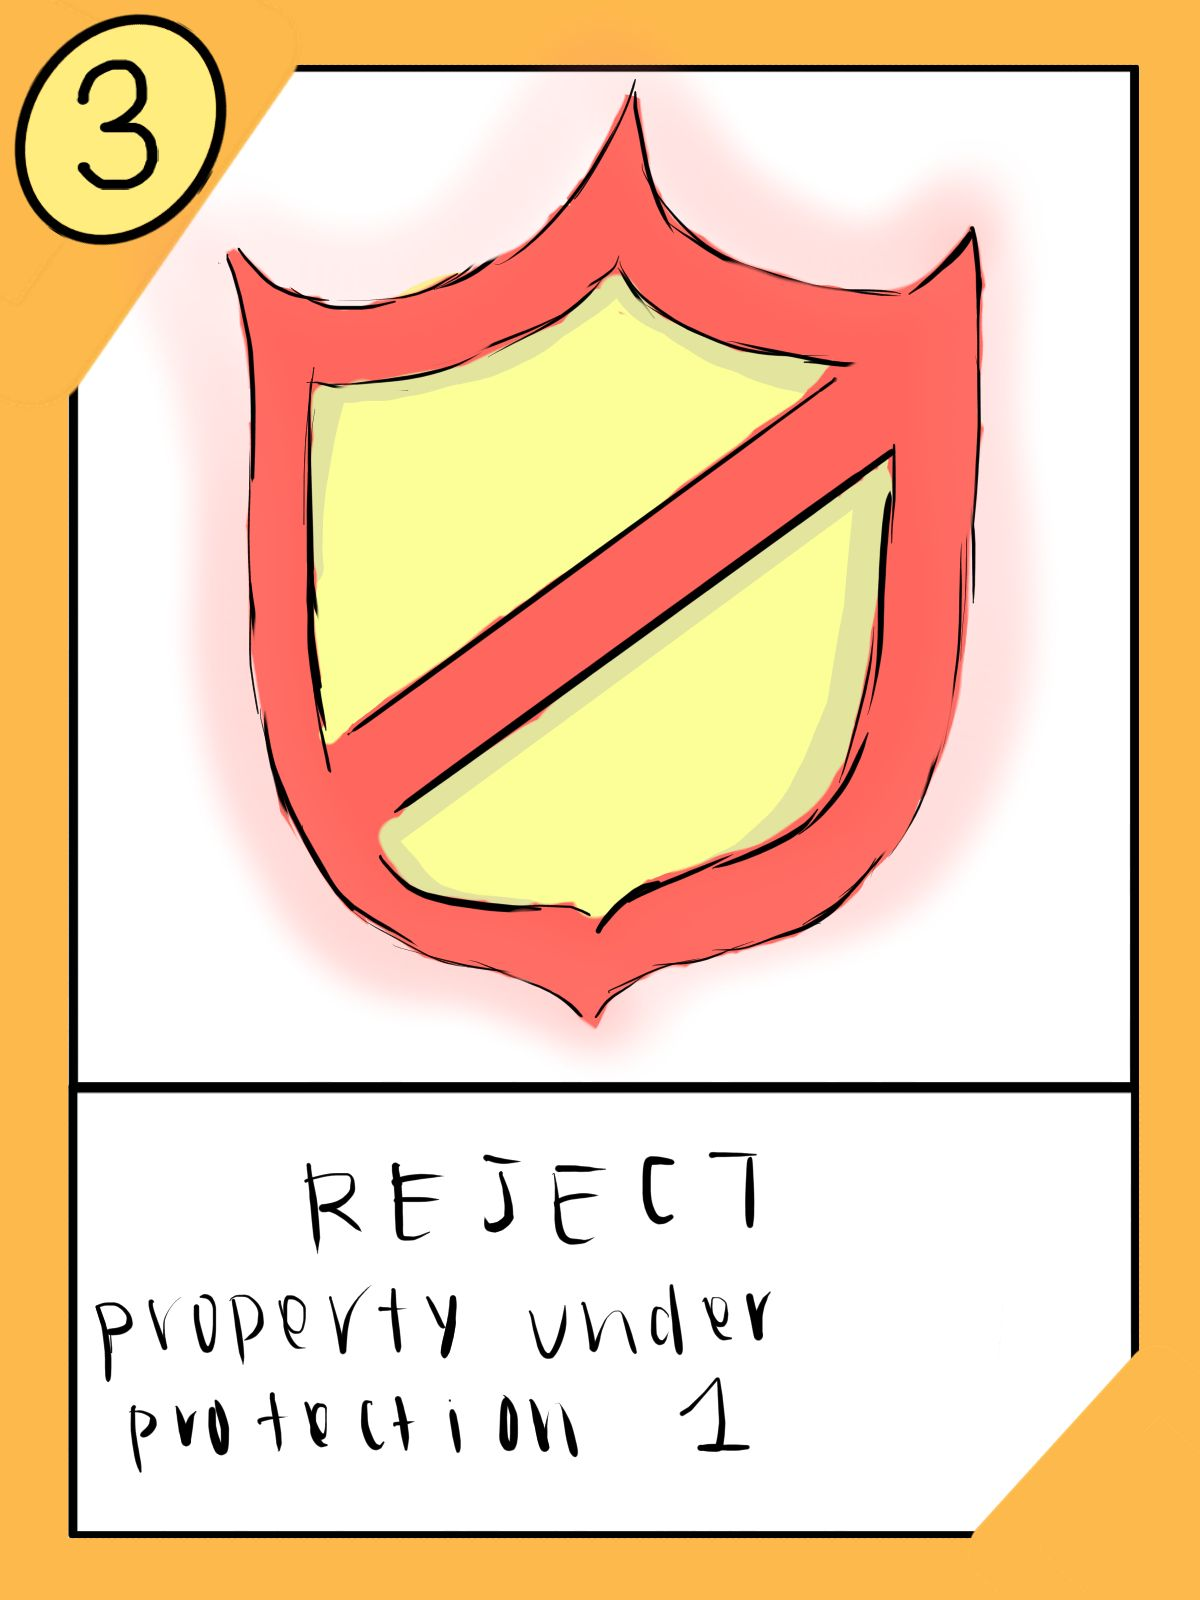
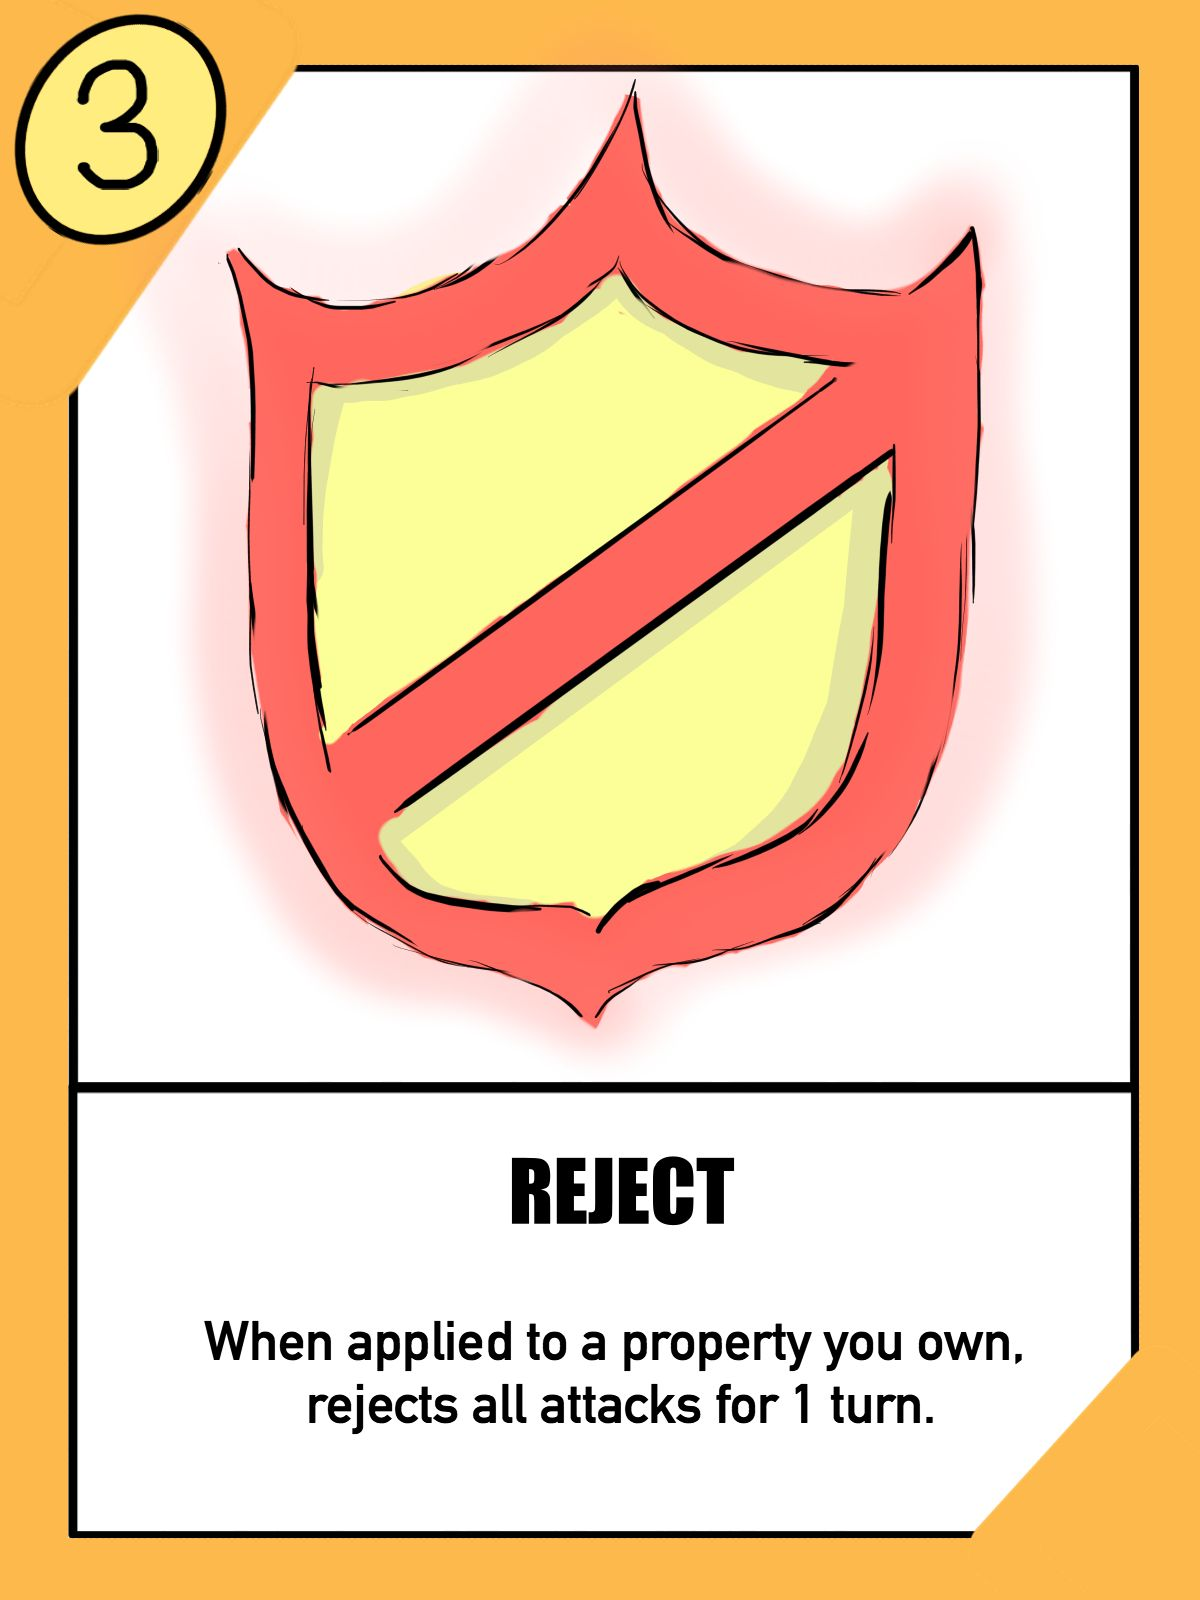
edited cards to have descriptions, added no cost and double cards, edited character cards

Changed region(s): [[0.0617, 0.8125, 0.8325, 0.9062], [0.4008, 0.7188, 0.6475, 0.7812], [0.2467, 0.7188, 0.37, 0.7812]]

diff --git a/client/src/multiplayer.js b/client/src/multiplayer.js
@@ -31,7 +31,7 @@ function Property(number, imgURL, health, shield, isAttackable) {
 // }
 
 
-charCards = [new Card("Maro", "img/maro.jpg"), new Card("Momo", "img/momoko.jpg"), new Card("CatMagi", "img/catMagicCard.jpg"), new Card("Ches", "img/ches.jpg")];
+charCards = [new Card("Maro", "img/maro.jpg"), new Card("Momo", "img/momoko.jpg"), new Card("CatMagi", "img/catMagicCard.jpg"), new Card("Ches", "img/chesu.jpg")];
 
 function Player(charIndex) {
     this.playerChar = charCards[charIndex];
@@ -99,24 +99,24 @@ var weightedDeck = [];
 // ];
 var deckCards;
 var deckCards0 = [new Card("attack", "img/maroDeck1.jpg", "attack", 1, 35), new Card("reject", "img/maroDeck3.jpg", "defense", 3, 14),
-    new Card("counter", "img/basicCard.jpg", "attack", 0, 4), new Card("swap", "img/maroDeck4.jpg", "attack", 4, 4),
-    new Card("defend", "img/maroDeck2.jpg", "defense", 2, 21), new Card("no cost", "img/basicCard.jpg", "attack", 5, 2),
-    new Card("double points", "img/basicCard.jpg", "attack", 5, 2)
+    new Card("counter", "img/maroDeck0.jpg", "attack", 0, 4), new Card("swap", "img/maroDeck4.jpg", "attack", 4, 4),
+    new Card("defend", "img/maroDeck2.jpg", "defense", 2, 21), new Card("no cost", "img/maroDeckNo5.jpg", "attack", 5, 2),
+    new Card("double points", "img/maroDeck5.jpg", "attack", 5, 2)
 ];
 var deckCards1 = [new Card("attack", "img/momoDeck1.jpg", "attack", 1, 35), new Card("reject", "img/momoDeck3.jpg", "defense", 3, 14),
-    new Card("counter", "img/basicCard.jpg", "attack", 0, 4), new Card("swap", "img/momoDeck4.jpg", "attack", 4, 4),
-    new Card("defend", "img/momoDeck2.jpg", "defense", 2, 21), new Card("no cost", "img/basicCard.jpg", "attack", 5, 2),
-    new Card("double points", "img/basicCard.jpg", "attack", 5, 2)
+    new Card("counter", "img/momoDeck0.jpg", "attack", 0, 4), new Card("swap", "img/momoDeck4.jpg", "attack", 4, 4),
+    new Card("defend", "img/momoDeck2.jpg", "defense", 2, 21), new Card("no cost", "img/momoDeckNo5.jpg", "attack", 5, 2),
+    new Card("double points", "img/momoDeck5.jpg", "attack", 5, 2)
 ];
 var deckCards2 = [new Card("attack", "img/catDeck1.jpg", "attack", 1, 35), new Card("reject", "img/catDeck3.jpg", "defense", 3, 14),
-    new Card("counter", "img/basicCard.jpg", "attack", 0, 4), new Card("swap", "img/catDeck4.jpg", "attack", 4, 4),
-    new Card("defend", "img/catDeck2.jpg", "defense", 2, 21), new Card("no cost", "img/basicCard.jpg", "attack", 5, 2),
-    new Card("double points", "img/basicCard.jpg", "attack", 5, 2)
+    new Card("counter", "img/catDeck0.jpg", "attack", 0, 4), new Card("swap", "img/catDeck4.jpg", "attack", 4, 4),
+    new Card("defend", "img/catDeck2.jpg", "defense", 2, 21), new Card("no cost", "img/catDeckNo5.jpg", "attack", 5, 2),
+    new Card("double points", "img/catDeck5.jpg", "attack", 5, 2)
 ];
 var deckCards3 = [new Card("attack", "img/chesDeck1.jpg", "attack", 1, 35), new Card("reject", "img/chesDeck3.jpg", "defense", 3, 14),
-    new Card("counter", "img/basicCard.jpg", "attack", 0, 4), new Card("swap", "img/chesDeck4.jpg", "attack", 4, 4),
-    new Card("defend", "img/chesDeck2.jpg", "defense", 2, 21), new Card("no cost", "img/basicCard.jpg", "attack", 5, 2),
-    new Card("double points", "img/basicCard.jpg", "attack", 5, 2)
+    new Card("counter", "img/chesDeck0.jpg", "attack", 0, 4), new Card("swap", "img/chesDeck4.jpg", "attack", 4, 4),
+    new Card("defend", "img/chesDeck2.jpg", "defense", 2, 21), new Card("no cost", "img/chesDeckNo5.jpg", "attack", 5, 2),
+    new Card("double points", "img/chesDeck5.jpg", "attack", 5, 2)
 ];
 //basic cards new Card("Attack","img/basicCard.jpg","attack",1), new Card("Reject","img/basicCard.jpg","defence",2),
 // new Card("Counter","img/basicCard.jpg","defence",0), new Card("Swap","img/basicCard.jpg","wildCard",4), new Card("Defend","img/basicCard.jpg","defence",3), new Card("No Cost","img/basicCard.jpg","wildCard",5),

diff --git a/client/multiplayer.html b/client/multiplayer.html
@@ -143,7 +143,7 @@
                 <img id="2" src="img/catMagicCard.jpg" alt="" class="ch-card" onclick="Select(this.id);"/>
             </button>
             <button class="char1">
-                <img id="3" src="img/ches.jpg" alt="" class="ch-card" onclick="Select(this.id);"/>
+                <img id="3" src="img/chesu.jpg" alt="" class="ch-card" onclick="Select(this.id);"/>
             </button>
             <p id="warning">Please choose a character.</p>
 
